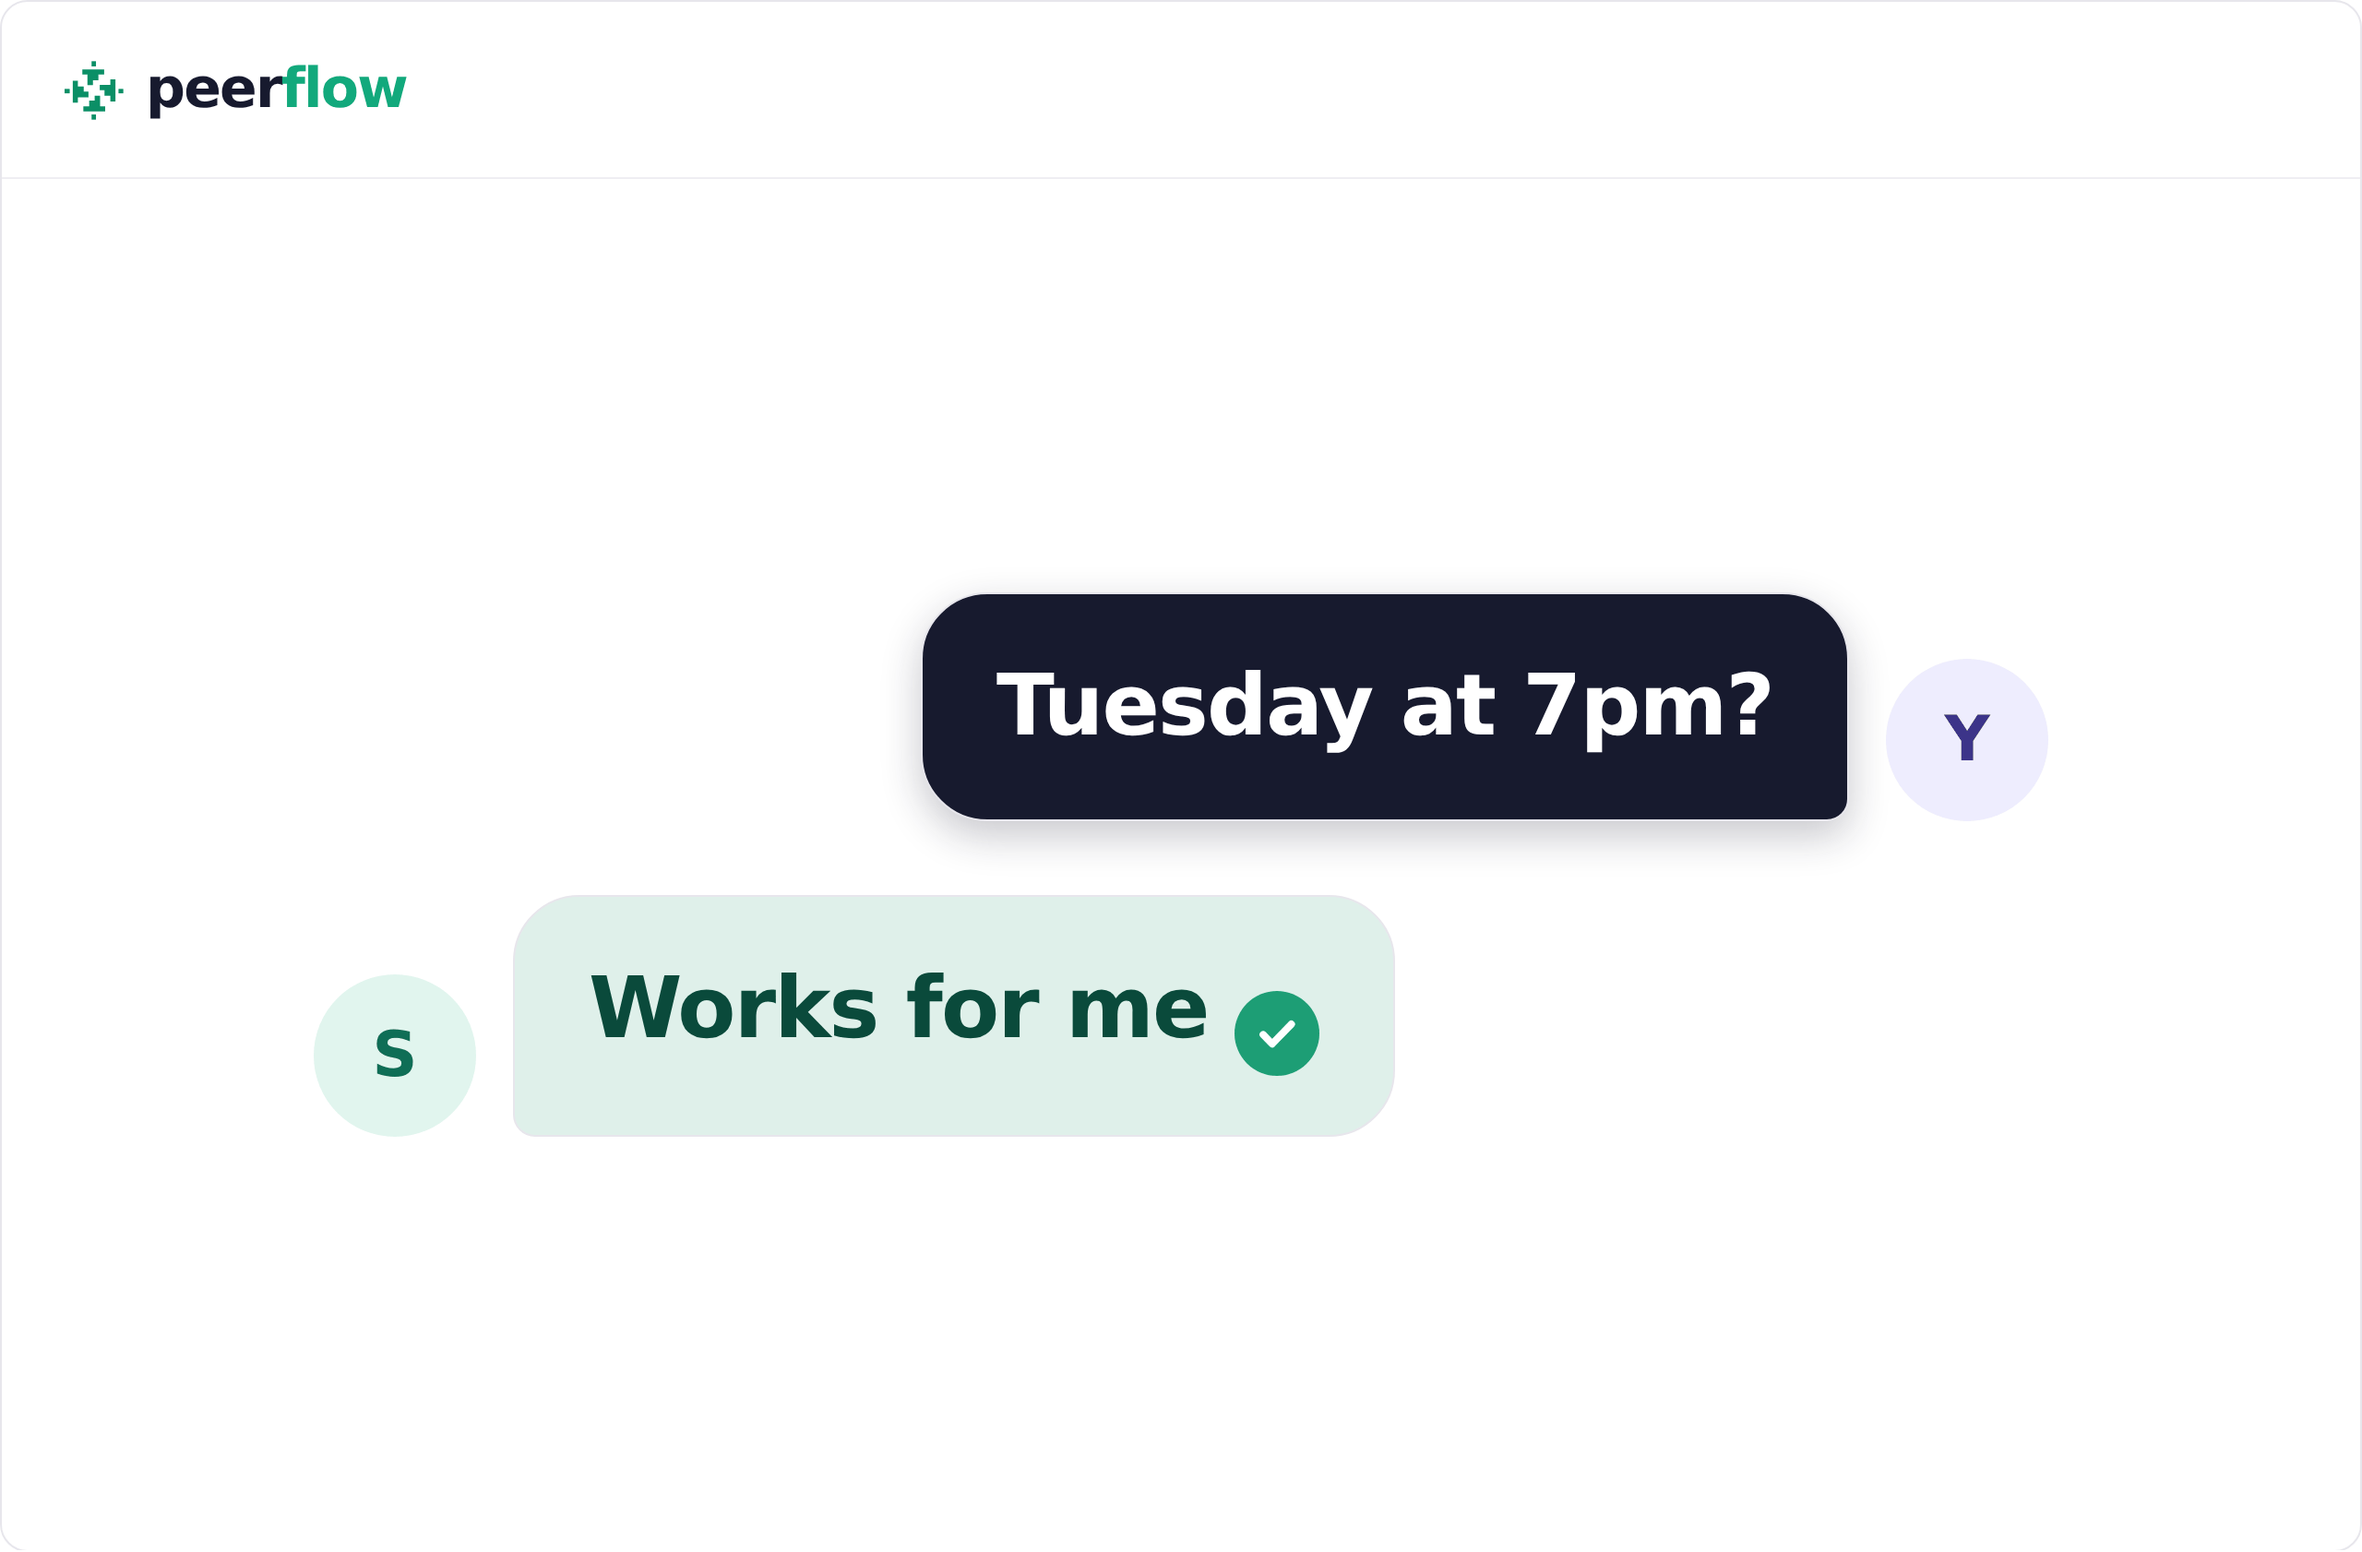
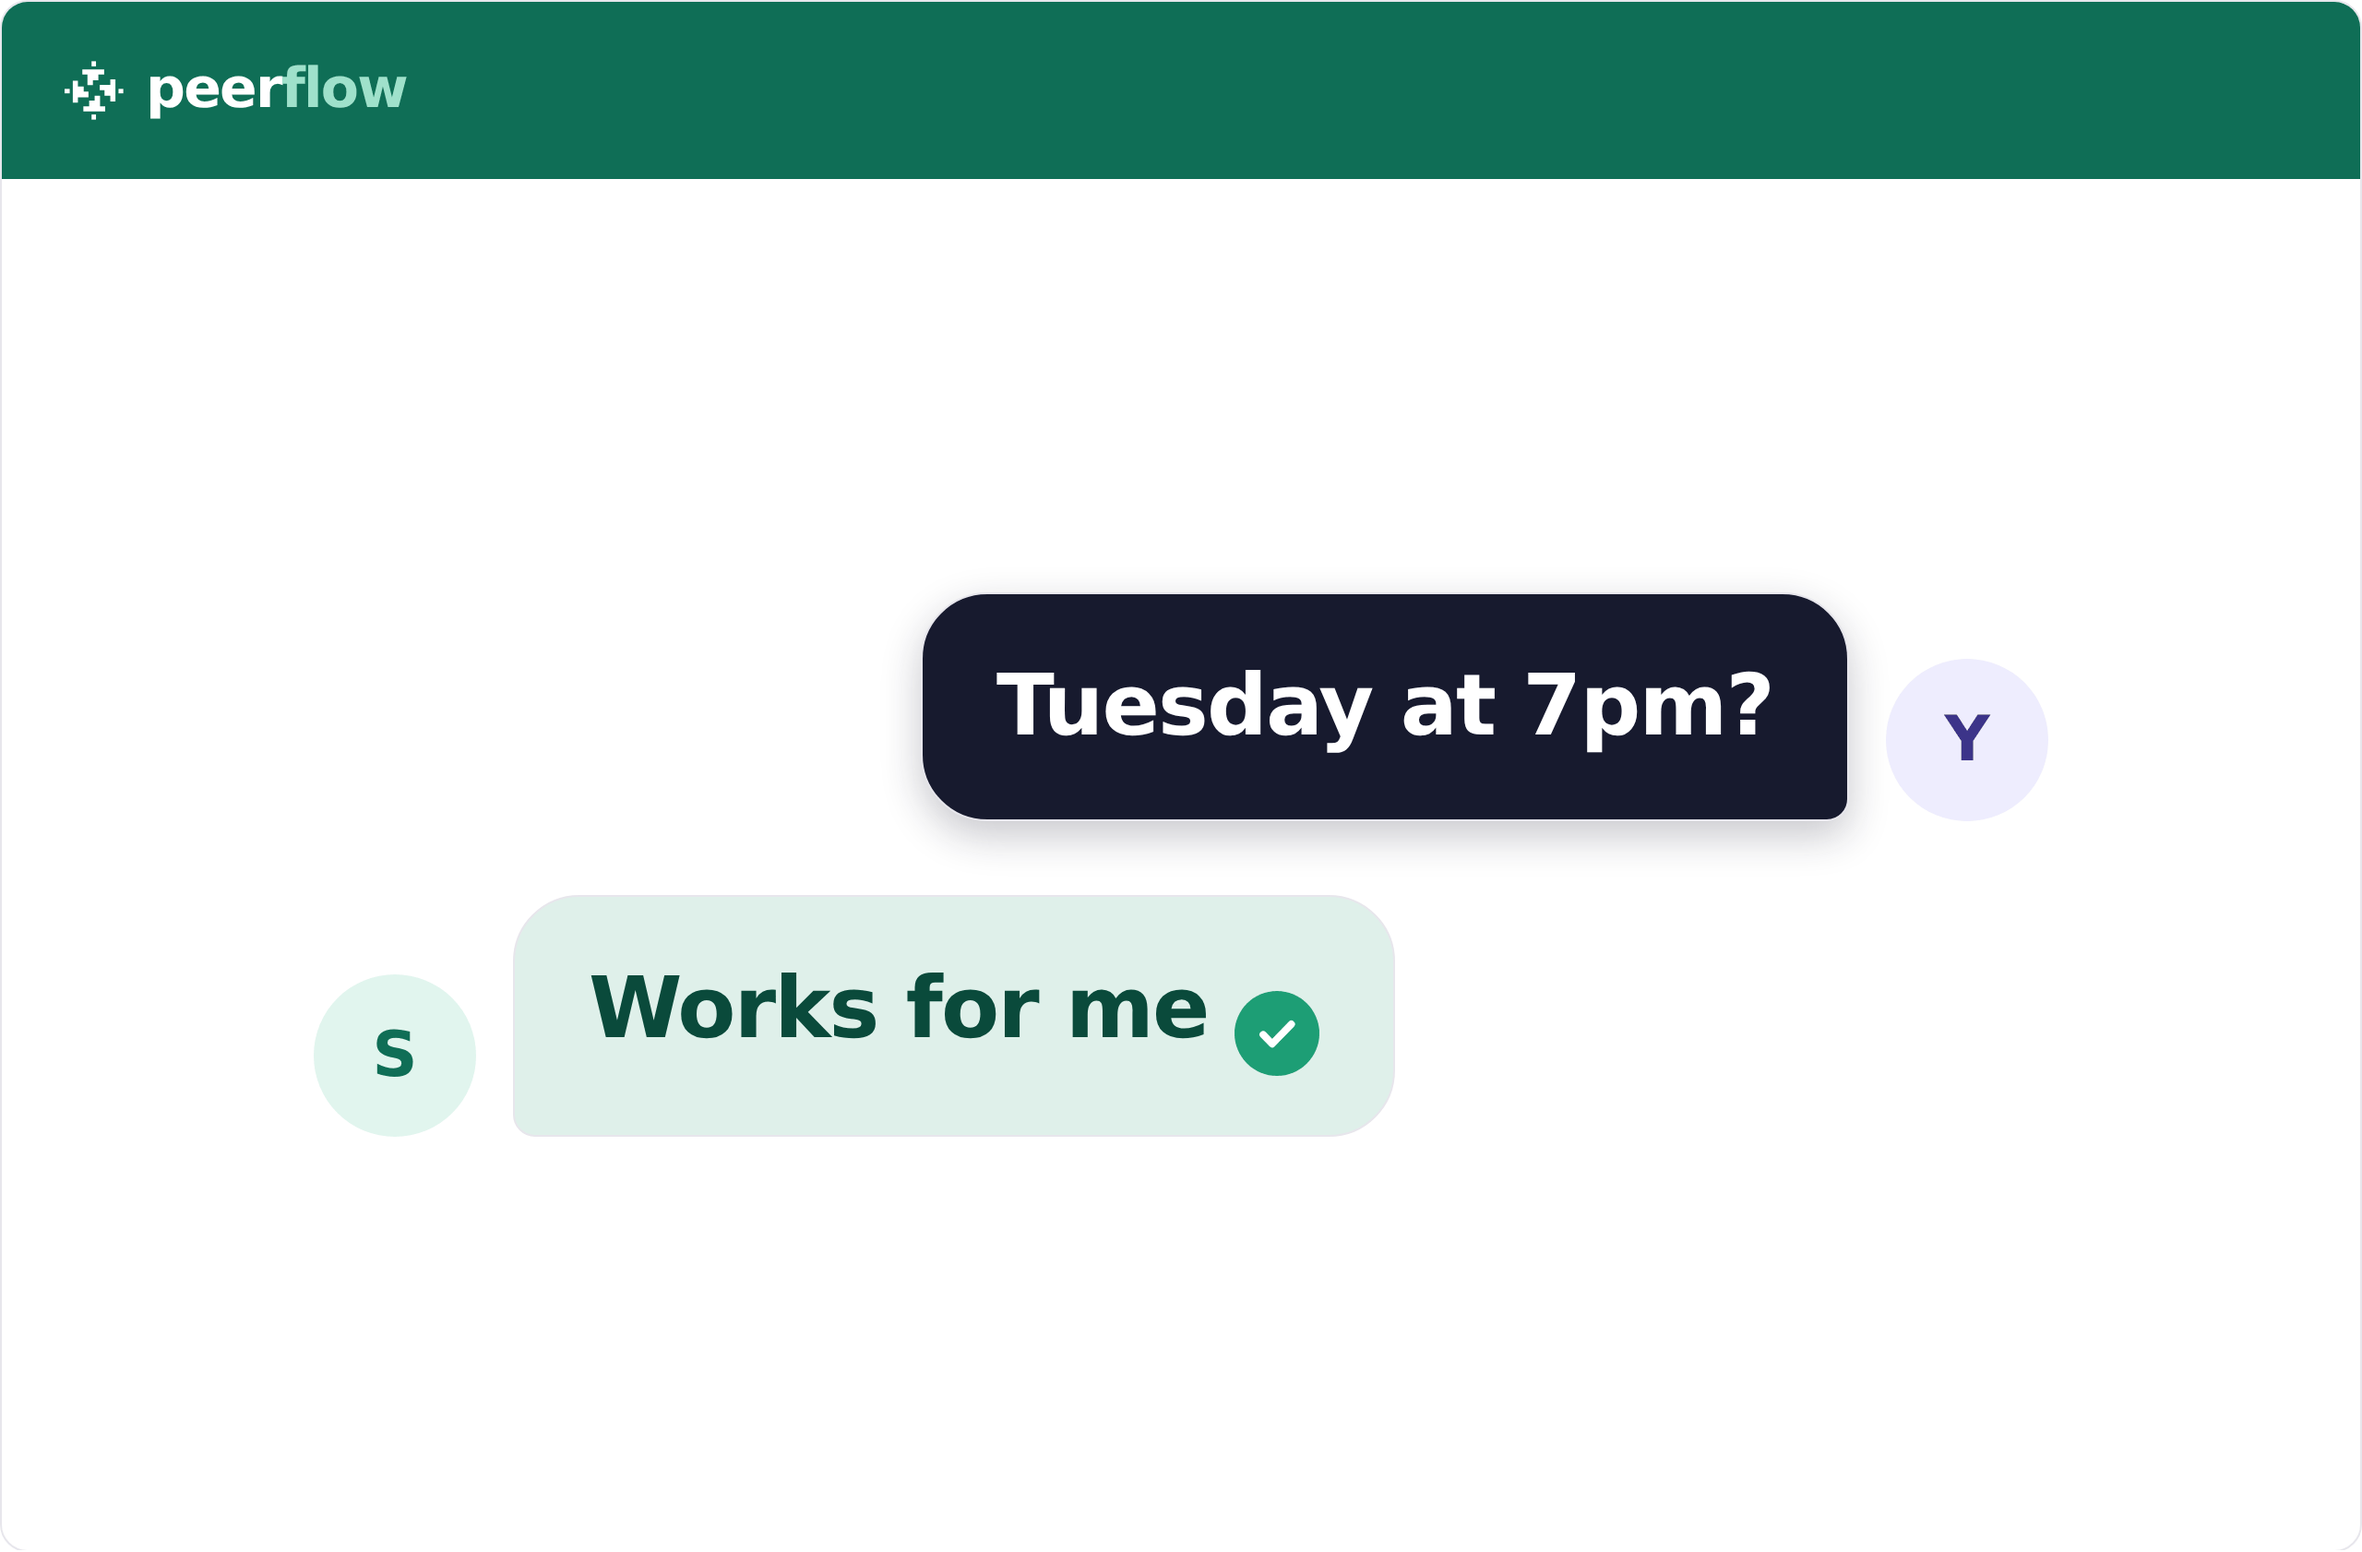
Green bars on the two drawn frames
The same #0F6E56 as the Send request buttons below them, so the bar and the
buttons in step one are one colour rather than two greens a shade apart. The
wordmark turns white with the "flow" in the pale green it already uses on the
dark band at the foot of the page.

Step three keeps its white bar, since that frame is a photograph rather than
something this repo draws.

Claude-Session: https://claude.ai/code/session_01YKC4UuyUEYgQuEBKY8hLuJ

Changed region(s): [[0.0, 0.0, 1.0, 0.1237]]

diff --git a/assets/how-frames.html b/assets/how-frames.html
@@ -16,13 +16,15 @@
   .frame{width:1280px;height:841px;background:#fff;border:1px solid #E7E6EC;
     border-radius:15px;overflow:hidden;display:flex;flex-direction:column;margin:0 0 40px}
 
-  /* A slimmer version of the bar on the video-call frame. At final size it
-     reads as window chrome, which is the whole job. */
-  .fbar{height:96px;flex:0 0 auto;border-bottom:1px solid #EFEEF2;
+  /* The bar, in the same green as the buttons below it. At final size it is a
+     band of colour across the top of the card, which is what tells the two
+     drawn frames apart from the photograph in step three. */
+  .fbar{height:96px;flex:0 0 auto;background:#0F6E56;
     display:flex;align-items:center;padding:0 34px}
   .fbrand{display:flex;align-items:center;gap:12px}
-  .fbrand b{font-size:30px;font-weight:800;letter-spacing:-.03em;color:var(--ink)}
-  .fbrand .g{color:#12A97C}
+  .fbrand svg{fill:#fff}
+  .fbrand b{font-size:30px;font-weight:800;letter-spacing:-.03em;color:#fff}
+  .fbrand .g{color:#9FE1CB}
   .fbody{flex:1;min-height:0;display:flex;flex-direction:column}
 
   /* ---------- 1. three people, three buttons ---------- */
